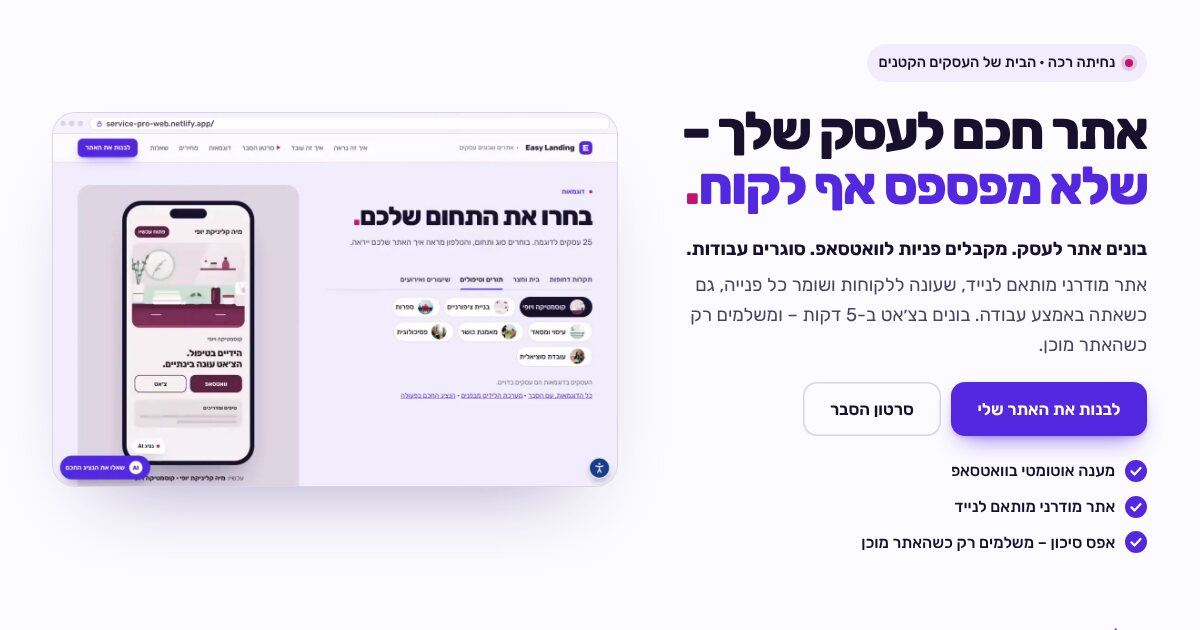
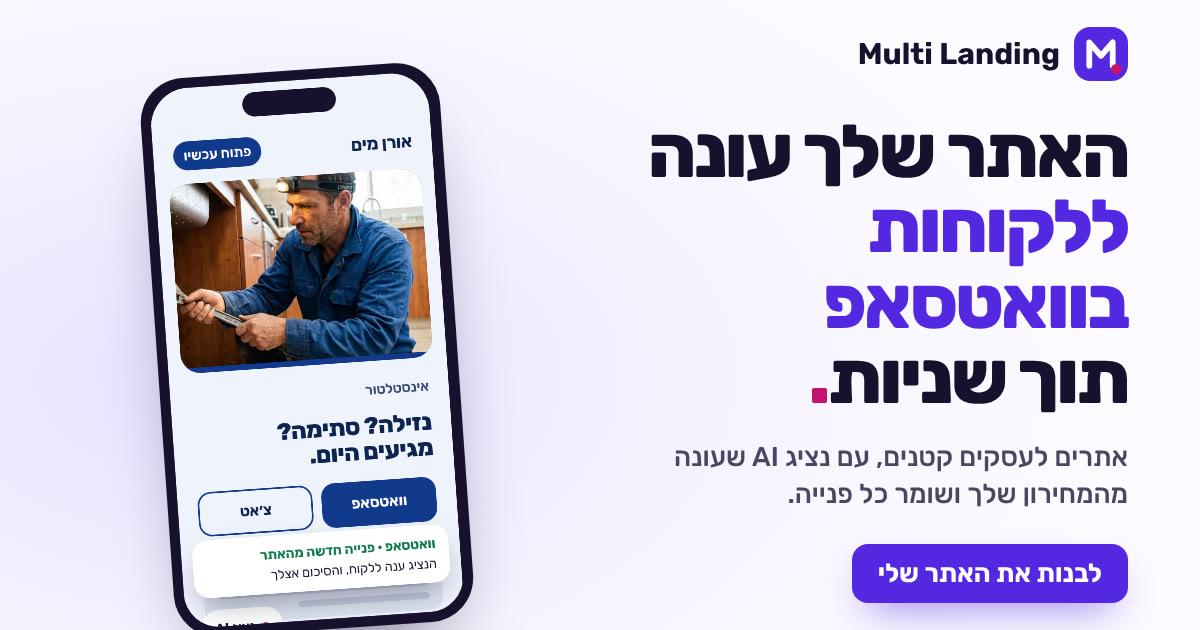
Brand: Multi Landing instead of Easy Landing, everywhere
The name in every page, the chats, the builder, the credit line on client
sites (BRAND_NAME default), the docs and the tests; an M in the logo and the
favicons; a new share image (og-image.jpg). Domain examples now
multilanding.co.il. Everything else stays as it was.

Claude-Session: https://claude.ai/code/session_015xjAbCv1XzzFKiqgGekPPt

diff --git a/demos/index.html b/demos/index.html
@@ -3,10 +3,10 @@
 <head>
 <meta charset="utf-8">
 <meta name="viewport" content="width=device-width, initial-scale=1, viewport-fit=cover">
-<title>Easy Landing · אתרים שבונים עסקים</title>
+<title>Multi Landing · אתרים שבונים עסקים</title>
 <script src="shared/a11y.js" data-statement="accessibility/"></script>
 <meta name="description" content="הבית של העסקים הקטנים: אתר שמוצאים בגוגל, שעונה ללקוחות בוואטסאפ ושומר כל פנייה. בונים בצ׳אט, ורואים את האתר לפני שמשלמים.">
-<meta property="og:title" content="Easy Landing · אתרים שבונים עסקים">
+<meta property="og:title" content="Multi Landing · אתרים שבונים עסקים">
 <meta property="og:description" content="בונים אתר לעסק. מקבלים פניות לוואטסאפ. סוגרים עבודות.">
 <meta property="og:image" content="https://service-pro-web.netlify.app/og-image.jpg">
 <meta property="og:image:width" content="1200">
@@ -14,14 +14,14 @@
 <meta property="og:url" content="https://service-pro-web.netlify.app/">
 <meta property="og:type" content="website">
 <meta property="og:locale" content="he_IL">
-<meta property="og:site_name" content="Easy Landing">
+<meta property="og:site_name" content="Multi Landing">
 <meta name="twitter:card" content="summary_large_image">
 <link rel="canonical" href="https://service-pro-web.netlify.app/">
 <link rel="icon" href="favicon.svg" type="image/svg+xml">
 <link rel="icon" href="favicon.ico" sizes="any">
 <link rel="apple-touch-icon" href="apple-touch-icon.png">
 <meta name="theme-color" content="#5428e0">
-<script type="application/ld+json">{"@context":"https://schema.org","@type":"ProfessionalService","name":"Easy Landing","slogan":"אתרים שבונים עסקים","description":"אתר לעסק קטן עם מענה אוטומטי בוואטסאפ, התראה על כל פנייה ותזכורת מעקב. כדי שאף פנייה לא תלך לאיבוד.","url":"https://service-pro-web.netlify.app/","telephone":"+972526359513","areaServed":{"@type":"Country","name":"ישראל"},"knowsLanguage":"he","logo":"https://service-pro-web.netlify.app/apple-touch-icon.png","image":"https://service-pro-web.netlify.app/og-image.jpg"}</script>
+<script type="application/ld+json">{"@context":"https://schema.org","@type":"ProfessionalService","name":"Multi Landing","slogan":"אתרים שבונים עסקים","description":"אתר לעסק קטן עם מענה אוטומטי בוואטסאפ, התראה על כל פנייה ותזכורת מעקב. כדי שאף פנייה לא תלך לאיבוד.","url":"https://service-pro-web.netlify.app/","telephone":"+972526359513","areaServed":{"@type":"Country","name":"ישראל"},"knowsLanguage":"he","logo":"https://service-pro-web.netlify.app/apple-touch-icon.png","image":"https://service-pro-web.netlify.app/og-image.jpg"}</script>
 <link rel="preconnect" href="https://fonts.googleapis.com"><link rel="preconnect" href="https://fonts.gstatic.com" crossorigin>
 <link rel="stylesheet" href="https://fonts.googleapis.com/css2?family=Rubik:wght@300;400;500;600;700;800&family=IBM+Plex+Mono:wght@500&display=swap">
 <style>
@@ -523,9 +523,9 @@ html.a11y-still .typing i, html.a11y-still .done-btn.ready { animation: none; }
 <body>
 <header class="bar">
   <div class="wrap">
-    <a class="brand" href="#top" aria-label="Easy Landing, אתרים שבונים עסקים">
-      <svg viewBox="0 0 30 30" aria-hidden="true"><rect width="30" height="30" rx="9" fill="#5428e0"/><path d="M9 8h12v3H12.5v2.6h7.5v2.8h-7.5V19H21v3H9z" fill="#fff"/><circle cx="23.5" cy="23.5" r="3" fill="#c2136f"/></svg>
-      <b>Easy Landing</b><small>אתרים שבונים עסקים</small>
+    <a class="brand" href="#top" aria-label="Multi Landing, אתרים שבונים עסקים">
+      <svg viewBox="0 0 30 30" aria-hidden="true"><rect width="30" height="30" rx="9" fill="#5428e0"/><path d="M8.5 21.5V8.5l6.5 7.5 6.5-7.5v13" fill="none" stroke="#fff" stroke-width="3.2" stroke-linecap="round" stroke-linejoin="round"/><circle cx="23.5" cy="23.5" r="3" fill="#c2136f"/></svg>
+      <b>Multi Landing</b><small>אתרים שבונים עסקים</small>
     </a>
     <nav class="nav" id="nav" aria-label="ניווט">
       <a href="#how">איך זה עובד</a><a class="nav-film" href="film/">סרטון הסבר</a><a href="#demos">דוגמאות</a><a href="#plans">מחירים</a><a href="#faq">שאלות</a>
@@ -541,7 +541,7 @@ html.a11y-still .typing i, html.a11y-still .done-btn.ready { animation: none; }
     <div class="wrap">
       <div class="hero-id">
         <p class="tagline"><i aria-hidden="true"></i>נחיתה רכה · אתרים שבונים עסקים</p>
-        <p class="hero-what"><b>Easy Landing</b> בונה אתרים לעסקים קטנים, עם נציג AI שעונה ללקוחות ומעביר כל פנייה לוואטסאפ<span class="dot">.</span></p>
+        <p class="hero-what"><b>Multi Landing</b> בונה אתרים לעסקים קטנים, עם נציג AI שעונה ללקוחות ומעביר כל פנייה לוואטסאפ<span class="dot">.</span></p>
       </div>
       <div class="hero-text">
         <h1 id="t-hero"><span>באמצע עבודה ולא פנוי לענות?</span><span class="two">האתר שלך עונה ללקוחות בוואטסאפ תוך&nbsp;שניות<span class="dot">.</span></span></h1>
@@ -686,7 +686,7 @@ html.a11y-still .typing i, html.a11y-still .done-btn.ready { animation: none; }
   </section>
 
 </main>
-<footer class="wrap foot"><span>Easy Landing · אתרים שבונים עסקים</span><span><a href="all/">כל הדוגמאות</a> · <a href="film/">סרטון הסבר</a> · <a href="privacy/">פרטיות ועוגיות</a> · <a href="terms/">תנאים וביטולים</a> · <a href="accessibility/">הצהרת נגישות</a></span></footer>
+<footer class="wrap foot"><span>Multi Landing · אתרים שבונים עסקים</span><span><a href="all/">כל הדוגמאות</a> · <a href="film/">סרטון הסבר</a> · <a href="privacy/">פרטיות ועוגיות</a> · <a href="terms/">תנאים וביטולים</a> · <a href="accessibility/">הצהרת נגישות</a></span></footer>
 <div class="dock"><div class="dock-row"><a class="btn" href="build/">לבנות את האתר שלי</a></div><p class="dock-note">0&nbsp;₪&nbsp;מקדמה · משלמים רק כשהאתר מוכן</p></div>
 
 <script>

diff --git a/demos/home-styles/classic.html b/demos/home-styles/classic.html
@@ -4,10 +4,10 @@
 <meta charset="utf-8">
 <meta name="robots" content="noindex, nofollow">
 <meta name="viewport" content="width=device-width, initial-scale=1, viewport-fit=cover">
-<title>Easy Landing · אתרים שבונים עסקים</title>
+<title>Multi Landing · אתרים שבונים עסקים</title>
 <script src="../shared/a11y.js" data-statement="../accessibility/"></script>
 <meta name="description" content="אתר לעסק קטן עם מענה אוטומטי בוואטסאפ, התראה על כל פנייה ותזכורת מעקב. כדי שאף פנייה לא תלך לאיבוד.">
-<script type="application/ld+json">{"@context":"https://schema.org","@type":"ProfessionalService","name":"Easy Landing","slogan":"אתרים שבונים עסקים","description":"אתר לעסק קטן עם מענה אוטומטי בוואטסאפ, התראה על כל פנייה ותזכורת מעקב. כדי שאף פנייה לא תלך לאיבוד.","url":"https://service-pro-web.netlify.app/","telephone":"+972526359513","areaServed":{"@type":"Country","name":"ישראל"},"knowsLanguage":"he"}</script>
+<script type="application/ld+json">{"@context":"https://schema.org","@type":"ProfessionalService","name":"Multi Landing","slogan":"אתרים שבונים עסקים","description":"אתר לעסק קטן עם מענה אוטומטי בוואטסאפ, התראה על כל פנייה ותזכורת מעקב. כדי שאף פנייה לא תלך לאיבוד.","url":"https://service-pro-web.netlify.app/","telephone":"+972526359513","areaServed":{"@type":"Country","name":"ישראל"},"knowsLanguage":"he"}</script>
 <link rel="preconnect" href="https://fonts.googleapis.com"><link rel="preconnect" href="https://fonts.gstatic.com" crossorigin>
 <link rel="stylesheet" href="https://fonts.googleapis.com/css2?family=Rubik:wght@300;400;500;600;700;800&display=swap">
 <style>
@@ -402,7 +402,7 @@ img, svg { display: block; }
 <body>
 <header class="bar">
   <div class="wrap">
-    <a class="brand" href="#top"><i></i><span>Easy Landing <small>· אתרים שבונים עסקים</small></span></a>
+    <a class="brand" href="#top"><i></i><span>Multi Landing <small>· אתרים שבונים עסקים</small></span></a>
     <nav class="nav" id="nav" aria-label="ניווט">
       <a href="#how">איך זה עובד</a><a class="nav-film" href="../film/">סרטון הסבר</a><a href="#what">מה יש באתר</a><a href="#demos">דוגמאות</a><a href="#plans">מחירים</a><a href="#faq">שאלות</a>
     </nav>
@@ -648,7 +648,7 @@ img, svg { display: block; }
         <div class="start-ctas"><a class="btn" href="../build/">לבנות את האתר שלי</a><button class="btn ghost" type="button" data-open-ai>לשאול את הנציג החכם</button></div>
         <p class="start-human">מעדיפים לדבר עם בן אדם? <a data-wa-human href="#">כתבו לנו בוואטסאפ</a></p>
       </div>
-      <footer class="foot"><span>Easy Landing · אתרים שבונים עסקים</span><span>העסקים בדוגמאות הם עסקים בדויים.</span><span><a href="../privacy/">פרטיות ועוגיות</a> · <a href="../accessibility/">הצהרת נגישות</a></span></footer>
+      <footer class="foot"><span>Multi Landing · אתרים שבונים עסקים</span><span>העסקים בדוגמאות הם עסקים בדויים.</span><span><a href="../privacy/">פרטיות ועוגיות</a> · <a href="../accessibility/">הצהרת נגישות</a></span></footer>
     </div>
   </section>
 </main>
@@ -747,7 +747,7 @@ img, svg { display: block; }
   } else $$('.reveal').forEach((el) => el.classList.add('on'));
 
   /* ---- the one human way in: WhatsApp, for whoever prefers a person ---- */
-  $$('[data-wa-human]').forEach((a) => { a.href = 'https://wa.me/' + WA + '?text=' + encodeURIComponent('היי, הגעתי מהאתר של Easy Landing ויש לי שאלה.'); a.target = '_blank'; a.rel = 'noopener'; });
+  $$('[data-wa-human]').forEach((a) => { a.href = 'https://wa.me/' + WA + '?text=' + encodeURIComponent('היי, הגעתי מהאתר של Multi Landing ויש לי שאלה.'); a.target = '_blank'; a.rel = 'noopener'; });
 
   /* ---- phone dock: after the first screen, until the form ---- */
   if ('IntersectionObserver' in window) { const dock = $('.dock'), seen = { hero: true, start: false };

diff --git a/demos/terms/index.html b/demos/terms/index.html
@@ -3,7 +3,7 @@
 <head>
 <meta charset="utf-8">
 <meta name="viewport" content="width=device-width, initial-scale=1, viewport-fit=cover">
-<title>תנאי שימוש וביטולים · Easy Landing</title>
+<title>תנאי שימוש וביטולים · Multi Landing</title>
 <meta name="description" content="מה כולל השירות, איך משלמים, איך מבטלים ומתי מחזירים כסף. בקצרה ובמילים פשוטות.">
 <link rel="canonical" href="https://service-pro-web.netlify.app/terms/">
 <link rel="icon" href="../favicon.svg" type="image/svg+xml">
@@ -38,16 +38,16 @@
 </style>
 </head>
 <body>
-<header class="bar"><div class="in"><a class="brand" href="../">Easy Landing</a><a href="../">חזרה לאתר</a></div></header>
+<header class="bar"><div class="in"><a class="brand" href="../">Multi Landing</a><a href="../">חזרה לאתר</a></div></header>
 <main>
 <h1>תנאי שימוש וביטולים</h1>
-<p class="meta">Easy Landing · עודכן: אוקטובר 2026</p>
+<p class="meta">Multi Landing · עודכן: אוקטובר 2026</p>
 <p class="lead">בקצרה: בונים בחינם ורואים את האתר המלא. משלמים רק כשמאשרים. משלמים כל חודש, ומבטלים מתי שרוצים.</p>
 
 <div class="box"><b>בשורה אחת:</b> אם האתר לא עלה לאוויר בגללנו, מחזירים לכם את כל דמי ההקמה. אחרי שהאתר באוויר, דמי ההקמה לא מוחזרים, ואת התשלום החודשי מפסיקים מתי שרוצים.</div>
 
 <h2>מי אנחנו</h2>
-<p>Easy Landing בונה לעסקים קטנים אתר עם נציג AI: מערכת שעונה ללקוחות ושומרת כל פנייה. התשלום נגבה דרך Grow, והקבלות מונפקות על ידי Multi brawn, עוסק פטור מס׳ <span dir="ltr">025236548</span>. בכל קבלה מופיעים שם העסק ומספר העוסק. מייל: <a href="mailto:multibrawn@gmail.com" dir="ltr">multibrawn@gmail.com</a>.</p>
+<p>Multi Landing בונה לעסקים קטנים אתר עם נציג AI: מערכת שעונה ללקוחות ושומרת כל פנייה. התשלום נגבה דרך Grow, והקבלות מונפקות על ידי Multi brawn, עוסק פטור מס׳ <span dir="ltr">025236548</span>. בכל קבלה מופיעים שם העסק ומספר העוסק. מייל: <a href="mailto:multibrawn@gmail.com" dir="ltr">multibrawn@gmail.com</a>.</p>
 
 <h2>מה כולל השירות</h2>
 <ul>
@@ -134,7 +134,7 @@
 <h2>שאלות</h2>
 <p><a href="https://wa.me/972526359513" target="_blank" rel="noopener">כתבו לנו בוואטסאפ</a> או במייל <a href="mailto:multibrawn@gmail.com" dir="ltr">multibrawn@gmail.com</a>, ונחזור אליכם.</p>
 
-<footer><span>Easy Landing · אתרים שבונים עסקים</span><a href="../privacy/">מדיניות פרטיות</a><a href="../accessibility/">הצהרת נגישות</a></footer>
+<footer><span>Multi Landing · אתרים שבונים עסקים</span><a href="../privacy/">מדיניות פרטיות</a><a href="../accessibility/">הצהרת נגישות</a></footer>
 </main>
 </body>
 </html>

diff --git a/demos/home-styles/luxury.html b/demos/home-styles/luxury.html
@@ -4,8 +4,8 @@
 <meta charset="utf-8">
 <meta name="viewport" content="width=device-width, initial-scale=1, viewport-fit=cover">
 <meta name="robots" content="noindex, nofollow">
-<title>כיוון ד: יוקרה חכמה · Easy Landing</title>
-<meta name="description" content="אב טיפוס לדף הבית של Easy Landing: אתר לעסק קטן שעונה ללקוחות בוואטסאפ, שומר כל פנייה ומזכיר לחזור.">
+<title>כיוון ד: יוקרה חכמה · Multi Landing</title>
+<meta name="description" content="אב טיפוס לדף הבית של Multi Landing: אתר לעסק קטן שעונה ללקוחות בוואטסאפ, שומר כל פנייה ומזכיר לחזור.">
 <script src="../shared/a11y.js" data-statement="../accessibility/"></script>
 <link rel="preconnect" href="https://fonts.googleapis.com"><link rel="preconnect" href="https://fonts.gstatic.com" crossorigin>
 <link rel="stylesheet" href="https://fonts.googleapis.com/css2?family=Rubik:wght@300;400;500;600;700;800&family=IBM+Plex+Mono:wght@500&display=swap">
@@ -341,9 +341,9 @@ html.a11y-still .typing i, html.a11y-still .done-btn.ready { animation: none; }
 <body>
 <header class="bar">
   <div class="wrap">
-    <a class="brand" href="#top" aria-label="Easy Landing, אתרים שבונים עסקים">
-      <svg viewBox="0 0 30 30" aria-hidden="true"><rect width="30" height="30" rx="9" fill="#5428e0"/><path d="M9 8h12v3H12.5v2.6h7.5v2.8h-7.5V19H21v3H9z" fill="#fff"/><circle cx="23.5" cy="23.5" r="3" fill="#c2136f"/></svg>
-      <b>Easy Landing</b><small>אתרים שבונים עסקים</small>
+    <a class="brand" href="#top" aria-label="Multi Landing, אתרים שבונים עסקים">
+      <svg viewBox="0 0 30 30" aria-hidden="true"><rect width="30" height="30" rx="9" fill="#5428e0"/><path d="M8.5 21.5V8.5l6.5 7.5 6.5-7.5v13" fill="none" stroke="#fff" stroke-width="3.2" stroke-linecap="round" stroke-linejoin="round"/><circle cx="23.5" cy="23.5" r="3" fill="#c2136f"/></svg>
+      <b>Multi Landing</b><small>אתרים שבונים עסקים</small>
     </a>
     <nav class="nav" aria-label="ניווט">
       <a href="#trades">דוגמאות</a><a href="#plans">מחירים</a><a href="#try">נסו פנייה</a><a href="#how">איך זה עובד</a><a href="#faq">שאלות</a>
@@ -582,7 +582,7 @@ html.a11y-still .typing i, html.a11y-still .done-btn.ready { animation: none; }
     </div>
   </section>
 </main>
-<footer class="wrap foot"><span>Easy Landing · אתרים שבונים עסקים</span><span>העסקים בדוגמאות הם עסקים בדויים.</span><span><a href="../privacy/">פרטיות ועוגיות</a> · <a href="../accessibility/">הצהרת נגישות</a></span></footer>
+<footer class="wrap foot"><span>Multi Landing · אתרים שבונים עסקים</span><span>העסקים בדוגמאות הם עסקים בדויים.</span><span><a href="../privacy/">פרטיות ועוגיות</a> · <a href="../accessibility/">הצהרת נגישות</a></span></footer>
 
 <script>
 (() => {

diff --git a/demos/accessibility/index.html b/demos/accessibility/index.html
@@ -3,8 +3,8 @@
 <head>
 <meta charset="utf-8">
 <meta name="viewport" content="width=device-width, initial-scale=1, viewport-fit=cover">
-<title>הצהרת נגישות · Easy Landing</title>
-<meta name="description" content="איך האתר של Easy Landing נבנה כדי שכולם יוכלו להשתמש בו, מה עוד לא מושלם, ואיך פונים אלינו.">
+<title>הצהרת נגישות · Multi Landing</title>
+<meta name="description" content="איך האתר של Multi Landing נבנה כדי שכולם יוכלו להשתמש בו, מה עוד לא מושלם, ואיך פונים אלינו.">
 <link rel="canonical" href="https://service-pro-web.netlify.app/accessibility/">
 <link rel="icon" href="../favicon.svg" type="image/svg+xml">
 <link rel="icon" href="../favicon.ico" sizes="any">
@@ -38,10 +38,10 @@
 </style>
 </head>
 <body>
-<header class="bar"><div class="in"><a class="brand" href="../">Easy Landing</a><a href="../">חזרה לאתר</a></div></header>
+<header class="bar"><div class="in"><a class="brand" href="../">Multi Landing</a><a href="../">חזרה לאתר</a></div></header>
 <main>
 <h1>הצהרת נגישות</h1>
-<p class="meta">Easy Landing · עודכן: אוקטובר 2026</p>
+<p class="meta">Multi Landing · עודכן: אוקטובר 2026</p>
 <p class="lead">חשוב לנו שכל אחד יוכל להשתמש באתר, כולל אנשים עם מוגבלות. האתר נבנה לפי התקן הישראלי 5568, שמבוסס על הנחיות WCAG 2.0 ברמה AA, ובהתאם לתקנות שוויון זכויות לאנשים עם מוגבלות (התאמות נגישות לשירות), 2013.</p>
 
 <h2>מה עשינו</h2>
@@ -75,12 +75,12 @@
 
 <h2>נתקלתם בבעיה?</h2>
 <div class="box">
-  <p>רכז הנגישות של Easy Landing<br>
+  <p>רכז הנגישות של Multi Landing<br>
   וואטסאפ או טלפון: <a href="tel:0526359513" dir="ltr">052-6359513</a> · <a href="https://wa.me/972526359513" target="_blank" rel="noopener">לכתוב בוואטסאפ</a></p>
   <p>ספרו לנו באיזה עמוד, מה ניסיתם לעשות ובאיזה מכשיר. נחזור אליכם, ואם צריך נעזור לכם בדרך אחרת, למשל לבנות את האתר יחד בשיחה.</p>
 </div>
 
-<footer><span>Easy Landing · אתרים שבונים עסקים</span><a href="../privacy/">מדיניות פרטיות ועוגיות</a><a href="../terms/">תנאים וביטולים</a></footer>
+<footer><span>Multi Landing · אתרים שבונים עסקים</span><a href="../privacy/">מדיניות פרטיות ועוגיות</a><a href="../terms/">תנאים וביטולים</a></footer>
 </main>
 </body>
 </html>

diff --git a/demos/film/index.html b/demos/film/index.html
@@ -3,15 +3,15 @@
 <head>
 <meta charset="utf-8">
 <meta name="viewport" content="width=device-width, initial-scale=1, viewport-fit=cover">
-<title>סרטון הסבר: איך זה עובד · Easy Landing</title>
+<title>סרטון הסבר: איך זה עובד · Multi Landing</title>
 <meta name="description" content="כל התהליך בסרטון קצר, 3:30 דקות: בוחרים תחום, נכנסים לבונה, בוחרים תבנית וצבעים, עונים על שאלות, מעלים תמונות, משלמים, והאתר באוויר. ואחר כך, כל מה שהאתר עושה בשבילכם.">
-<meta property="og:title" content="סרטון הסבר: איך זה עובד · Easy Landing">
+<meta property="og:title" content="סרטון הסבר: איך זה עובד · Multi Landing">
 <meta property="og:description" content="כל התהליך בסרטון קצר, מההתחלה ועד שהאתר באוויר, ומה הוא עושה בשבילכם.">
 <meta property="og:image" content="https://service-pro-web.netlify.app/shared/video/process/process-poster.webp">
 <meta property="og:url" content="https://service-pro-web.netlify.app/film/">
 <meta property="og:type" content="video.other">
 <meta property="og:locale" content="he_IL">
-<meta property="og:site_name" content="Easy Landing">
+<meta property="og:site_name" content="Multi Landing">
 <meta name="twitter:card" content="summary_large_image">
 <link rel="canonical" href="https://service-pro-web.netlify.app/film/">
 <link rel="icon" href="../favicon.svg" type="image/svg+xml">
@@ -85,7 +85,7 @@
 </head>
 <body>
 <header class="bar"><div class="wrap">
-  <a class="brand" href="../"><i aria-hidden="true"></i>Easy Landing</a>
+  <a class="brand" href="../"><i aria-hidden="true"></i>Multi Landing</a>
   <a class="btn sm ghost back" href="../">חזרה לדף הראשי</a>
 </div></header>
 
@@ -130,7 +130,7 @@
   </section>
 </main>
 
-<footer><div class="wrap"><span>Easy Landing · אתרים שבונים עסקים</span><span><a href="../privacy/">פרטיות ועוגיות</a> · <a href="../terms/">תנאים וביטולים</a> · <a href="../accessibility/">הצהרת נגישות</a></span></div></footer>
+<footer><div class="wrap"><span>Multi Landing · אתרים שבונים עסקים</span><span><a href="../privacy/">פרטיות ועוגיות</a> · <a href="../terms/">תנאים וביטולים</a> · <a href="../accessibility/">הצהרת נגישות</a></span></div></footer>
 
 <script>
 (() => {

diff --git a/demos/all/index.html b/demos/all/index.html
@@ -3,16 +3,16 @@
 <head>
   <meta charset="utf-8">
   <meta name="viewport" content="width=device-width, initial-scale=1">
-  <title>כל הדוגמאות · Easy Landing</title>
+  <title>כל הדוגמאות · Multi Landing</title>
 <script src="../shared/a11y.js" data-statement="../accessibility/"></script>
   <meta name="description" content="30 אתרים לדוגמה לעסקים קטנים, בארבעה סוגים. בכל אחד צ׳אט שעונה מיד ומעביר את הפנייה לוואטסאפ.">
-<meta property="og:title" content="כל הדוגמאות · Easy Landing">
+<meta property="og:title" content="כל הדוגמאות · Multi Landing">
 <meta property="og:description" content="30 אתרים לדוגמה לעסקים קטנים, בארבעה סוגים. בכל אחד צ׳אט שעונה מיד ומעביר את הפנייה לוואטסאפ.">
 <meta property="og:image" content="https://service-pro-web.netlify.app/og-image.jpg">
 <meta property="og:url" content="https://service-pro-web.netlify.app/all/">
 <meta property="og:type" content="website">
 <meta property="og:locale" content="he_IL">
-<meta property="og:site_name" content="Easy Landing">
+<meta property="og:site_name" content="Multi Landing">
 <meta name="twitter:card" content="summary_large_image">
 <link rel="canonical" href="https://service-pro-web.netlify.app/all/">
 <link rel="icon" href="../favicon.svg" type="image/svg+xml">
@@ -198,7 +198,7 @@
 
   <div class="wrap">
     <header class="top">
-      <a class="brand" href="../">Easy Landing<small>אתרים שבונים עסקים</small></a>
+      <a class="brand" href="../">Multi Landing<small>אתרים שבונים עסקים</small></a>
       <a class="btn btn-wa btn-sm" data-wa href="#contact">וואטסאפ</a>
     </header>
 
@@ -338,7 +338,7 @@
 
 </main>
 
-  <footer class="wrap"><a href="../">Easy Landing</a> · אתרים שבונים עסקים · <a href="../privacy/">פרטיות ועוגיות</a> · <a href="../accessibility/">הצהרת נגישות</a></footer>
+  <footer class="wrap"><a href="../">Multi Landing</a> · אתרים שבונים עסקים · <a href="../privacy/">פרטיות ועוגיות</a> · <a href="../accessibility/">הצהרת נגישות</a></footer>
 
   <script>
     // Contact settings. whatsappNumber in international format without "+", e.g. 972501234567.

diff --git a/demos/privacy/index.html b/demos/privacy/index.html
@@ -3,8 +3,8 @@
 <head>
 <meta charset="utf-8">
 <meta name="viewport" content="width=device-width, initial-scale=1, viewport-fit=cover">
-<title>מדיניות פרטיות ועוגיות · Easy Landing</title>
-<meta name="description" content="מה Easy Landing שומרת עליכם, למה, אצל מי, לכמה זמן, ואיך מבקשים לראות, לתקן או למחוק.">
+<title>מדיניות פרטיות ועוגיות · Multi Landing</title>
+<meta name="description" content="מה Multi Landing שומרת עליכם, למה, אצל מי, לכמה זמן, ואיך מבקשים לראות, לתקן או למחוק.">
 <link rel="canonical" href="https://service-pro-web.netlify.app/privacy/">
 <link rel="icon" href="../favicon.svg" type="image/svg+xml">
 <link rel="icon" href="../favicon.ico" sizes="any">
@@ -38,10 +38,10 @@
 </style>
 </head>
 <body>
-<header class="bar"><div class="in"><a class="brand" href="../">Easy Landing</a><a href="../">חזרה לאתר</a></div></header>
+<header class="bar"><div class="in"><a class="brand" href="../">Multi Landing</a><a href="../">חזרה לאתר</a></div></header>
 <main>
 <h1>מדיניות פרטיות ועוגיות</h1>
-<p class="meta">Easy Landing · עודכן: אוקטובר 2026</p>
+<p class="meta">Multi Landing · עודכן: אוקטובר 2026</p>
 <p class="lead">בקצרה: אנחנו שומרים רק את מה שצריך כדי לבנות לכם אתר ולחזור אליכם. לא מוכרים פרטים, לא שולחים פרסומות, ולא משתמשים בעוגיות מעקב.</p>
 <p>התשלומים והקבלות: Multi brawn, עוסק פטור מס׳ <span dir="ltr">025236548</span>. מייל: <a href="mailto:multibrawn@gmail.com" dir="ltr">multibrawn@gmail.com</a>.</p>
 
@@ -101,7 +101,7 @@
 <h2>שינויים</h2>
 <p>אם המדיניות תשתנה, נעדכן כאן ונשנה את התאריך למעלה.</p>
 
-<footer><span>Easy Landing · אתרים שבונים עסקים</span><a href="../terms/">תנאים וביטולים</a><a href="../accessibility/">הצהרת נגישות</a></footer>
+<footer><span>Multi Landing · אתרים שבונים עסקים</span><a href="../terms/">תנאים וביטולים</a><a href="../accessibility/">הצהרת נגישות</a></footer>
 </main>
 </body>
 </html>

diff --git a/demos/shared/aibot.js b/demos/shared/aibot.js
@@ -131,7 +131,7 @@
       }
       const panel = el("section", "ab-panel"); panel.setAttribute("role", "dialog"); panel.setAttribute("aria-label", "נציג חכם");
       const head = el("div", "ab-head");
-      const meta = el("div"); meta.append(el("b", null, cfg.name || "הנציג של Easy Landing"), el("small", null, cfg.subtitle || "עונה בעברית, על כל שאלה"));
+      const meta = el("div"); meta.append(el("b", null, cfg.name || "הנציג של Multi Landing"), el("small", null, cfg.subtitle || "עונה בעברית, על כל שאלה"));
       const mode = el("span", "ab-mode", "AI");
       const x = el("button", "ab-x", "×"); x.type = "button"; x.setAttribute("aria-label", "סגירה");
       head.append(meta, mode, x);
@@ -205,7 +205,7 @@
         panel.classList.add("open"); launch.setAttribute("aria-expanded", "true");
         if (hint) { hint.remove(); hint = null; launch.classList.remove("ab-call"); }
         if (window.LeadForm && window.LeadForm.act) window.LeadForm.act("chat");
-        if (!started) { started = true; render(cfg.greet || "היי, אני הנציג החכם של Easy Landing. אפשר לשאול אותי כל דבר על דפי נחיתה, וואטסאפ אוטומטי ונציג AI לעסק שלכם. ככה בדיוק ייראה נציג באתר שלכם."); }
+        if (!started) { started = true; render(cfg.greet || "היי, אני הנציג החכם של Multi Landing. אפשר לשאול אותי כל דבר על דפי נחיתה, וואטסאפ אוטומטי ונציג AI לעסק שלכם. ככה בדיוק ייראה נציג באתר שלכם."); }
         input.focus();
       }
       function close() { panel.classList.remove("open"); launch.setAttribute("aria-expanded", "false"); }

diff --git a/scripts/video-stage.html b/scripts/video-stage.html
@@ -144,7 +144,7 @@
 </head>
 <body>
 <header class="top">
-  <div class="brand"><b>Easy Landing</b><small>אתרים שבונים עסקים</small></div>
+  <div class="brand"><b>Multi Landing</b><small>אתרים שבונים עסקים</small></div>
   <ol class="rail" id="rail"></ol>
   <div class="gets" aria-hidden="true"><i>אחרי שהאתר באוויר</i>מה האתר עושה בשבילכם</div>
 </header>
@@ -167,7 +167,7 @@
 <div class="card" id="card"><div><div class="n" id="cardN"></div><h2 id="cardT"></h2><p id="cardS"></p></div></div>
 
 <div class="phone" id="phone"><div class="scr">
-  <div class="bar"><span class="av" id="phAv">E</span><div><b id="phName">Easy Landing</b><small id="phSub">וואטסאפ</small></div></div>
+  <div class="bar"><span class="av" id="phAv">E</span><div><b id="phName">Multi Landing</b><small id="phSub">וואטסאפ</small></div></div>
   <div class="msgs" id="msgs"></div>
 </div></div>
 
@@ -188,7 +188,7 @@
 
   // The address bar shows the real address of the page in the window.
   const SHOW = (u) => {
-    if (u.pathname.startsWith("/__live")) return "<b>oren-mayim.easylanding.co.il</b>" + u.pathname.replace(/^\/__live\/?/, "/").replace(/^\/$/, "");
+    if (u.pathname.startsWith("/__live")) return "<b>oren-mayim.multilanding.co.il</b>" + u.pathname.replace(/^\/__live\/?/, "/").replace(/^\/$/, "");
     return "service-pro-web.netlify.app<b>" + u.pathname.replace(/index\.html$/, "") + "</b>";
   };
   setInterval(() => { try { const u = new URL($("app").contentWindow.location.href); if (u.protocol.startsWith("http")) $("url").innerHTML = SHOW(u); } catch (e) {} }, 100);

diff --git a/demos/build/index.html b/demos/build/index.html
@@ -3,7 +3,7 @@
 <head>
 <meta charset="utf-8">
 <meta name="viewport" content="width=device-width, initial-scale=1, viewport-fit=cover">
-<title>בונים אתר בשיחה · Easy Landing</title>
+<title>בונים אתר בשיחה · Multi Landing</title>
 <script src="../shared/a11y.js" data-statement="../accessibility/"></script>
 <meta name="description" content="עונים על כמה שאלות על העסק, ורואים את האתר נבנה מולכם. מאשרים, ורק אז משלמים.">
 <meta name="theme-color" content="#5428e0">
@@ -242,7 +242,7 @@
 </style>
 </head>
 <body>
-<header class="top"><div class="in"><a class="brand" href="/"><svg viewBox="0 0 30 30" aria-hidden="true"><rect width="30" height="30" rx="9" fill="#5428e0"/><path d="M9 8h12v3H12.5v2.6h7.5v2.8h-7.5V19H21v3H9z" fill="#fff"/><circle cx="23.5" cy="23.5" r="3" fill="#c2136f"/></svg>Easy Landing</a><small>בונה האתרים</small></div></header>
+<header class="top"><div class="in"><a class="brand" href="/"><svg viewBox="0 0 30 30" aria-hidden="true"><rect width="30" height="30" rx="9" fill="#5428e0"/><path d="M8.5 21.5V8.5l6.5 7.5 6.5-7.5v13" fill="none" stroke="#fff" stroke-width="3.2" stroke-linecap="round" stroke-linejoin="round"/><circle cx="23.5" cy="23.5" r="3" fill="#c2136f"/></svg>Multi Landing</a><small>בונה האתרים</small></div></header>
 
 <main id="start" class="start" hidden>
   <section aria-labelledby="t-start">

diff --git a/demos/home-styles/blueprint.html b/demos/home-styles/blueprint.html
@@ -4,7 +4,7 @@
 <meta charset="utf-8">
 <meta name="viewport" content="width=device-width, initial-scale=1, viewport-fit=cover">
 <meta name="robots" content="noindex, nofollow">
-<title>כיוון ג: תוכנית בנייה · Easy Landing</title>
+<title>כיוון ג: תוכנית בנייה · Multi Landing</title>
 <script src="../shared/a11y.js" data-statement="../accessibility/"></script>
 <link rel="preconnect" href="https://fonts.googleapis.com"><link rel="preconnect" href="https://fonts.gstatic.com" crossorigin>
 <link rel="stylesheet" href="https://fonts.googleapis.com/css2?family=Secular+One&family=IBM+Plex+Sans+Hebrew:wght@400;500;700&family=IBM+Plex+Mono:wght@500&display=swap">
@@ -108,7 +108,7 @@ h1 u { text-decoration: none; background: linear-gradient(transparent 78%, var(-
 <body>
 <section class="sheet">
   <div class="wrap">
-    <header class="bar"><a class="brand" href="../">Easy Landing</a><a class="btn go" href="../build/">לבנות את האתר</a></header>
+    <header class="bar"><a class="brand" href="../">Multi Landing</a><a class="btn go" href="../build/">לבנות את האתר</a></header>
     <div class="hero">
       <div>
         <p class="note">גיליון 1 · אתר לעסק שלכם</p>
